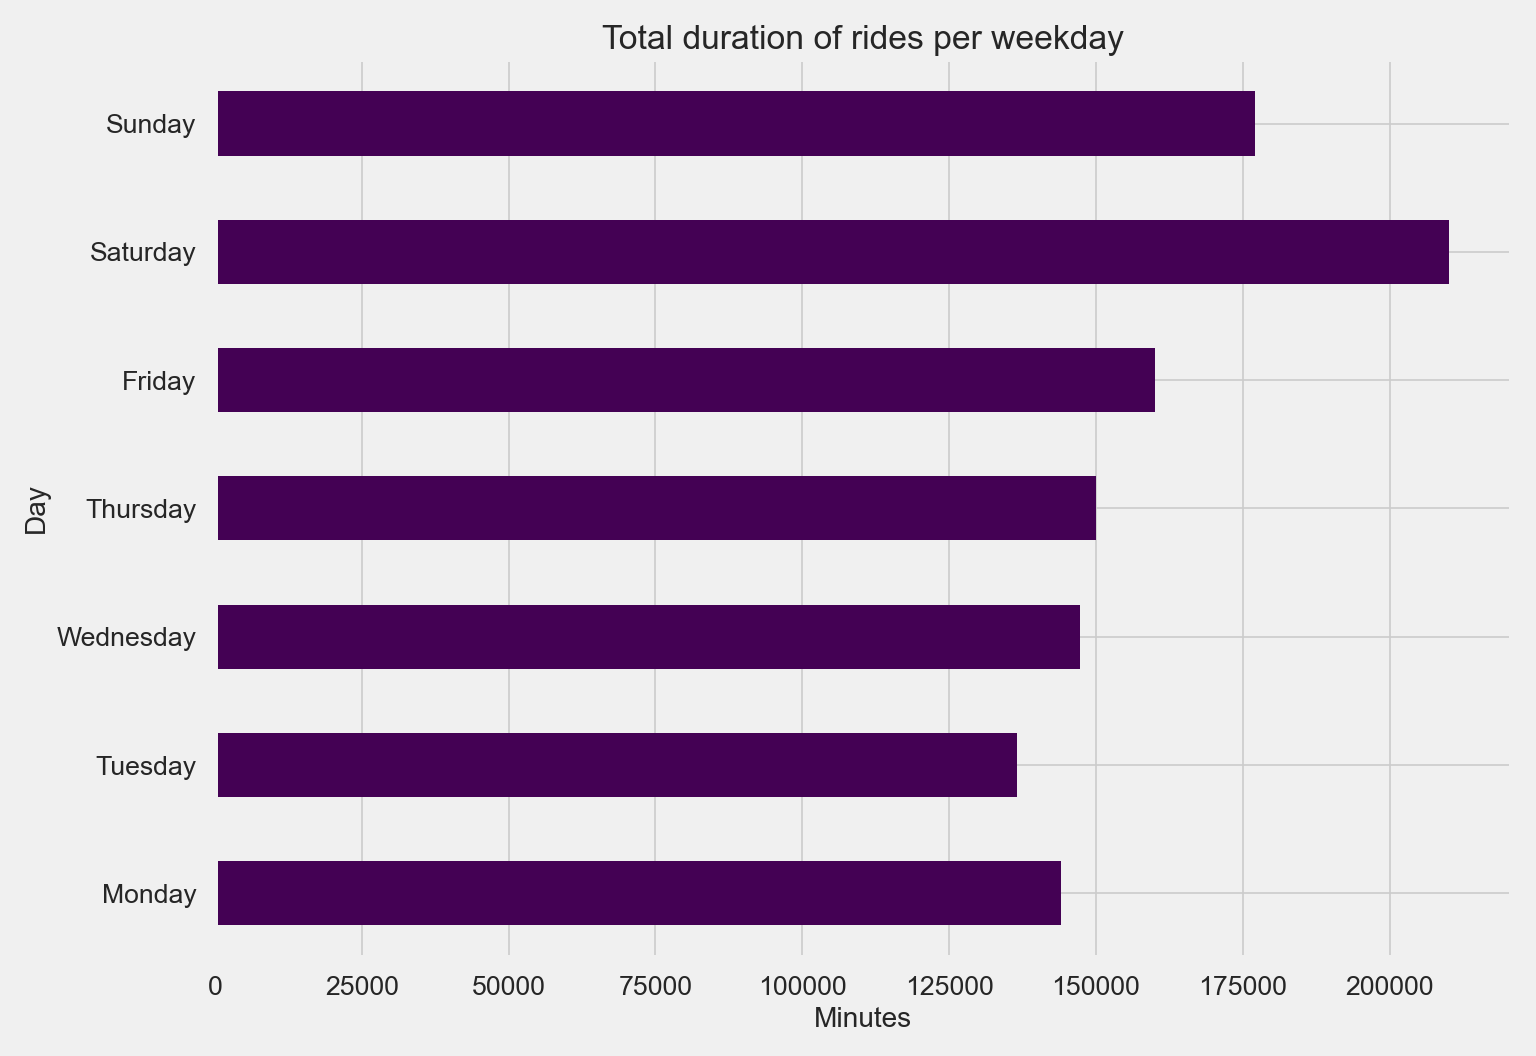
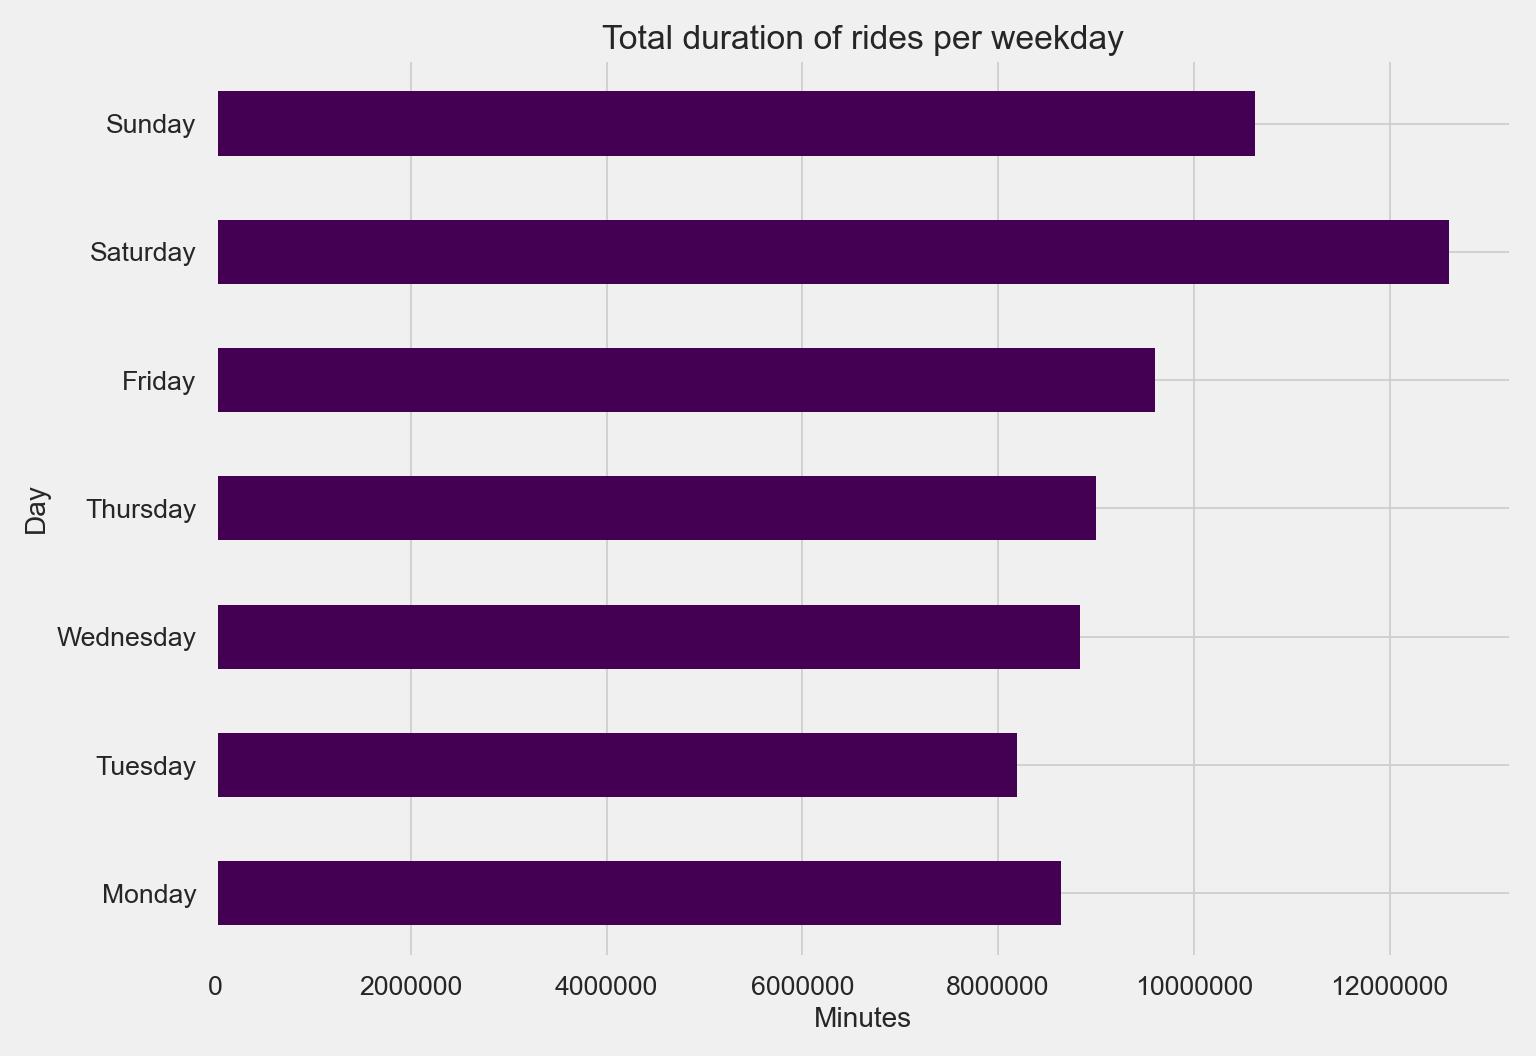
.

Changed region(s): [[0.5938, 0.9062, 0.8438, 0.9688], [0.2188, 0.9062, 0.4375, 0.9375], [0.5, 0.9062, 0.5625, 0.9375]]

diff --git a/2018/src/data/data_analysis.py b/2018/src/data/data_analysis.py
@@ -159,7 +159,7 @@ day_of_week2["avg_dur_minute"] = avg_duration
 # visualizing the total duration of rides per day of the week
 plt.figure(figsize=(18, 8), dpi=120)
 plt.style.use("fivethirtyeight")
-ax = day_of_week2.plot.barh(y="tot_dur_hour", legend=False, cmap="viridis")
+ax = day_of_week2.plot.barh(y="tot_dur_minute", legend=False, cmap="viridis")
 plt.title("Total duration of rides per weekday")
 plt.ylabel("Day")
 plt.xlabel("Minutes")
@@ -289,4 +289,84 @@ plt.xticks(rotation=90)
 plt.grid(True)
 plt.tight_layout()
 plt.savefig("../../reports/figures/rides_per_minute_duration_combined.png")
+plt.show()
+
+# Creating a new dataframe for the seasons
+seasons_df = y2018.copy()
+
+seasons_df = seasons_df.drop(
+    columns=[
+        "Duration",
+        "Start station number",
+        "End date",
+        "Start station",
+        "End station number",
+        "End station",
+        "Bike number",
+        "Day of the week",
+        "hour",
+    ]
+)
+# Extracting info from the start date
+seasons_df["date"] = seasons_df["Start date"].dt.date
+seasons_df["hour"] = seasons_df["Start date"].dt.hour
+seasons_df["month"] = seasons_df["Start date"].dt.month
+
+# Adding the season column
+seasons_df["season"] = pd.cut(
+    seasons_df["month"],
+    bins=[0, 2, 5, 8, 11, 12],
+    labels=["Winter", "Spring", "Summer", "Fall", "Winter"],
+    right=True,
+    include_lowest=True,
+    ordered=False,
+)
+
+# Visualizing the number of rides per season
+seasons = seasons_df["season"].value_counts()
+plt.figure(figsize=(18, 8), dpi=120)
+plt.style.use("fivethirtyeight")
+seasons.plot.bar()
+plt.title("Number of rides per season")
+plt.ylabel("Number of rides")
+plt.xlabel("Season")
+plt.tight_layout()
+plt.savefig("../../reports/figures/rides_per_season.png", dpi=120)
+plt.show()
+
+# Creating a new dataframe for the number of rides per season and hour
+season_hour = seasons_df.groupby(["hour", "season"]).size()
+season_hour = season_hour.reset_index()
+season_hour.columns = ["time", "season", "count"]
+
+# Visualizing the number of rides per season and hour
+sns.set_theme(rc={"figure.figsize": (14, 10)})
+sns.set_context("paper", font_scale=1.2, rc={"lines.linewidth": 1.7})
+sns.set_style("darkgrid")
+
+# Create the point plot
+ax = sns.pointplot(
+    data=season_hour, x="time", y="count", hue="season", palette="viridis"
+)
+
+# Customize the legend
+ax.legend(
+    title="Season",
+    title_fontsize="large",
+    fontsize="large",
+    loc="upper right",
+    shadow=True,
+    fancybox=True,
+    frameon=True,
+)
+
+# Customize grid lines
+ax.grid(True, which="both", linestyle="--", linewidth=0.5, color="gray")
+
+# Add titles and labels
+plt.title("Season-wise Hourly Distribution of Bike Rentals", fontsize="xx-large")
+plt.ylabel("Count of Rides", fontsize="x-large")
+plt.xlabel("Hour of the Day", fontsize="x-large")
+plt.tight_layout()
+plt.savefig("../../reports/figures/rides_per_season_hour.png", dpi=120)
 plt.show()
